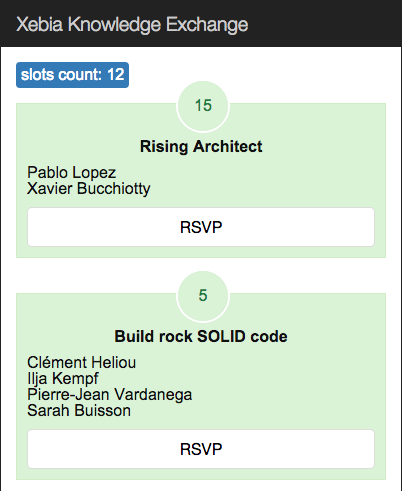
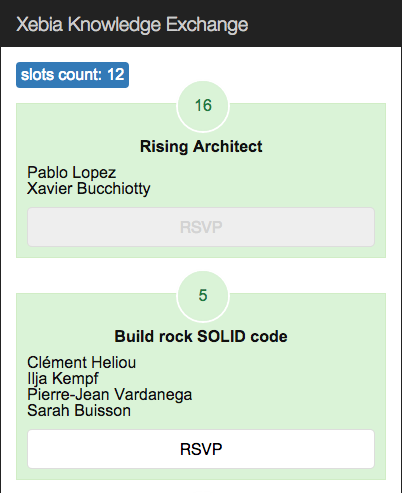
Exo: Filter component

diff --git a/workshop/slot-component.md b/workshop/slot-component.md
@@ -13,6 +13,24 @@ Pour vous rappeler la structure :
   - selector: `xke-slot` (@Component)
   - templateUrl: `xke-slot.html` (@View)
 
+**xke-slot.html :**
+
+```html
+<div class="count">
+  <div>8</div>
+</div>
+
+<div class="title">Slot title</div>
+
+<ul>
+  <li>Speaker 1</li>
+  <li>Speaker 2</li>
+</ul>
+
+<button>RSVP</button>
+```
+
+
 Utiliser ce component dans le template de XkeSlots (`xke-slots.html`) à la place de titre dans la balise &lt;li&gt;:
 
 - n'oubliez pas de l'importer dans le `xke-slots.js` et de le declarer dans @View `directives: []`.
@@ -23,18 +41,27 @@ Pour l'instant le nouveau component n'as pas d'accès au model d'un slot. Fixons
 ### Component properties [] :
 
 - declarez le propriété `model` du component `XkeSlot` dans son `@Component` :
+
 ```typescript
 @Component({
     selector: 'xke-slot',
     properties: ['model']
 })
 ```
-- dans le template de XkeSlots (`xke-slots.html`) passer le `slot` dans le propriété `model` du &lt;xke-slot&gt; (utilisez les crochées)  
-- finalizez le template du component `XkeSlot` :
+
+- dans le template de XkeSlots (`xke-slots.html`) passez le `slot` dans le propriété `model` du &lt;xke-slot&gt; (utilisez les crochées)  
+- 'dynamisez' le template du component `XkeSlot` :
   - model.title
   - model.attendees
   - model.speakers (utiliser ng-for)
   
+### Component behaviour :
+
+Implementer le comportement de click sur le bouton RSVP :
+- au click, appelez la méthode `rsvp()`
+- implementez la méthode
+  - incrementez le nombre d'attendées: `model.attendees`
+  - une fois cliqué, il faut disactiver le bouton (rappelez vous comment écrire directement dans les [proprietés](http://www.w3schools.com/tags/att_input_disabled.asp)  d'un élément html) 
 
 Votre application doit s'approcher à ça :
 
@@ -42,4 +69,4 @@ Votre application doit s'approcher à ça :
   
 [Solution](slot-component-solution.md)
 
-[< Prev](store-service.md) [Next >](slot-component.md)
+[< Prev](store-service.md) [Next >](filter-component.md)

diff --git a/workshop/filter-component.md b/workshop/filter-component.md
@@ -1,0 +1,53 @@
+## Filter component
+
+L'objectif de cette partie est de créer un component `xke-filter` permettant de filtrer le slots. 
+Pour cela il nous faudra faire communiquer deux components frères.
+
+Component `xke-filter` est positionné est tant que frère de component `xke-slots` :
+
+![Components Tree](img/components-tree-filter.png)
+
+### Component : 
+
+- créez le component `XkeFilter` dans un nouveau fichier `xke-filter.js`
+  - selector: `xke-filter`
+  - templateUrl: `xke-filter.html`
+  
+**xke-filter.html :**
+
+```html
+<input type="text" placeholder="Filter slot..." />
+```
+
+Utilisez `xke-filter` dans le component App (`app.js`) en le placant juste avant &lt;xke-slots&gt;
+
+### Comminucation :
+
+Pour pouvoir communiquer avec le `xke-slots`, notre nouveau component doit émettre un événement (api output) 
+dont la valeur sera ensuite tarnsmise à `xke-slots`.  
+
+
+**XkeFilter -> App:**
+
+- au `keyup` sur &lt;input&gt; appelez une méthode `doFilter()`
+- utilisez une référence pour passer une valeur d'&lt;input&gt; à `doFilter(...)`
+- ajoutez une méthode `doFilter(...)` et vérfiez à l'aide de `console.log()` que tout marche comme voulu
+- lancez un événement `filter` :
+  - dans `@Component` ajouter un propriété suivant: `events: ['filter']`
+  - dans la class `XkeFilter` ajoutez un propriété `filter:EventEmitter = new EventEmitter();`
+  - pour éméttre un événement: `this.filter.next({value: term});`
+
+**App -> XkeSlots:**
+
+Normallement, vous avez toutes les connaissances nécessaires pour faire cette étape :-P  
+
+Une fois la valeur de filtre est recupérée dans `XkeSlots` vous pouvez filtrer la liste des slots.
+[Voici](filter-component-filter-function.md) le code de filtrage pour gagner du temps.
+
+Le Resultat:
+
+![filter component resultat](img/filter-component-resultat.png)
+  
+[Solution](filter-component-solution.md)
+
+[< Prev](slot-component.md) [Next >](exo2.md)

diff --git a/workshop/filter-component-solution.md b/workshop/filter-component-solution.md
@@ -1,0 +1,61 @@
+## Slot Component
+
+Fichier `xke-filter.js` :
+
+```typescript
+import {ComponentAnnotation as Component, ViewAnnotation as View, Event, bootstrap} from 'angular2/angular2';
+import {NgFor} from 'angular2/angular2';
+import {EventEmitter} from 'angular2/angular2';
+
+@Component({
+  selector: 'xke-filter',
+  events: ['filter']
+})
+@View({
+  templateUrl: 'xke-filter.html'
+})
+export class XkeFilter {
+  filter:EventEmitter = new EventEmitter();
+
+  doFilter(term:string) {
+    this.filter.next({value: term});
+  }
+}
+```
+
+
+Fichier `xke-filter.html` :
+
+```html
+<input #form type="text" placeholder="Filter slot..." (keyup)="doFilter(form.value)" />
+```
+
+Fichier `app.js` :
+
+```typescript
+import {ComponentAnnotation as Component, ViewAnnotation as View, Event, bootstrap} from 'angular2/angular2';
+import {XkeSlots} from 'xke-slots';
+import {XkeFilter} from 'xke-filter';
+
+@Component({
+  selector: 'xke-app'
+})
+@View({
+  template: `<header>{{name}}</header>
+        <xke-filter (filter)="xkeslots.filter($event.value)"></xke-filter>
+        <xke-slots #xkeslots></xke-slots>`,
+  directives: [XkeSlots, XkeFilter]
+})
+export class App {
+  name:String = 'Xebia Knowledge Exchange';
+
+  constructor() {
+  }
+}
+
+bootstrap(App);
+```
+
+
+
+[< Back](filter-component.md)

diff --git a/workshop/filter-component-filter-function.md b/workshop/filter-component-filter-function.md
@@ -1,0 +1,15 @@
+## Filter function
+
+```typescript
+...
+filter(term:string) {
+  this.term = term;
+}
+
+getSlots() {
+  return this.storeService.getSlots().filter((slot) => {
+    return !this.term || slot.title.toLowerCase().indexOf(this.term.toLowerCase()) >= 0;
+  });
+}
+...
+```
